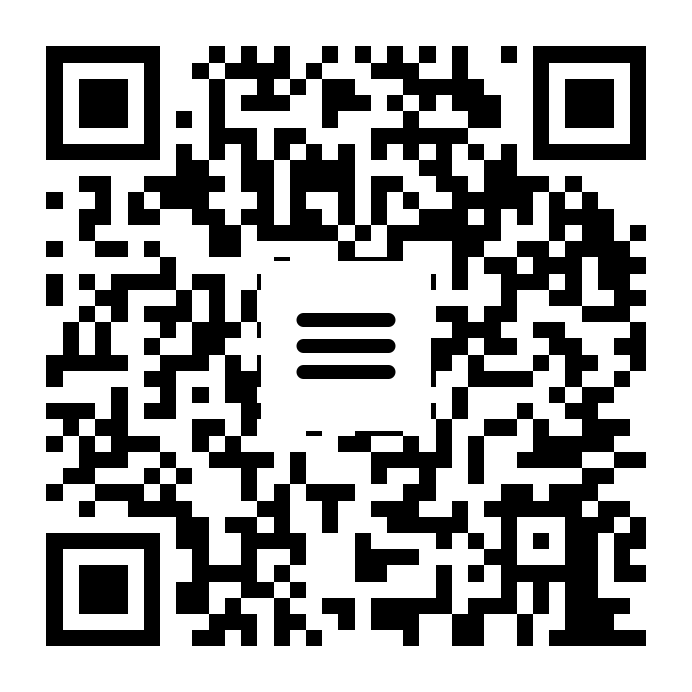
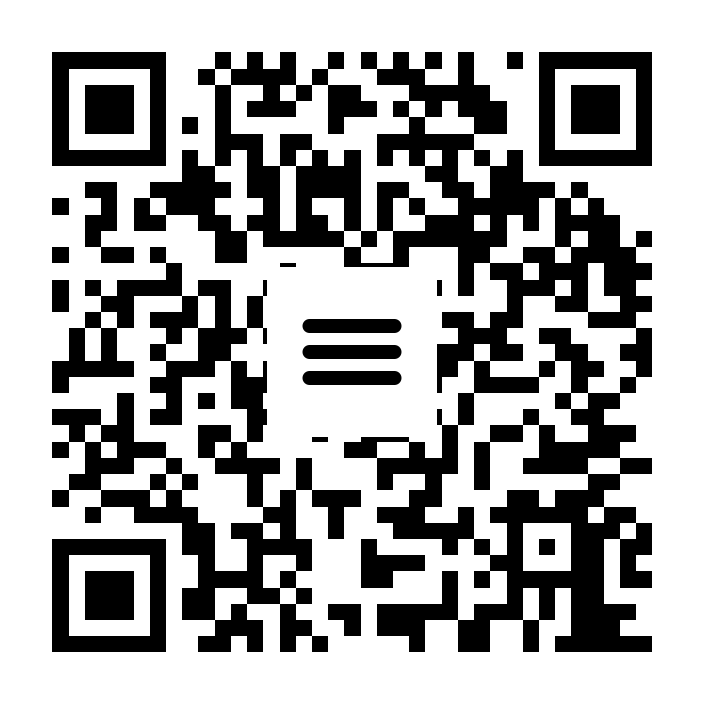
Increase padding to 52px for better spacing
- Padding increased from 46px to 52px
- More generous white border around QR code

🤖 Generated with [Claude Code](https://claude.com/claude-code)

diff --git a/generate-qr-png.js b/generate-qr-png.js
@@ -20,8 +20,8 @@ async function generateQRWithIcon(filename, iconSVG) {
     // Load QR code image
     const qrImage = await loadImage(qrDataURL);
 
-    // Add white padding around QR code (~6mm = ~46px at print resolution)
-    const padding = 46;
+    // Add white padding around QR code (~6.5mm = ~52px at print resolution)
+    const padding = 52;
     const borderRadius = 100;
 
     // Create canvas with padding
